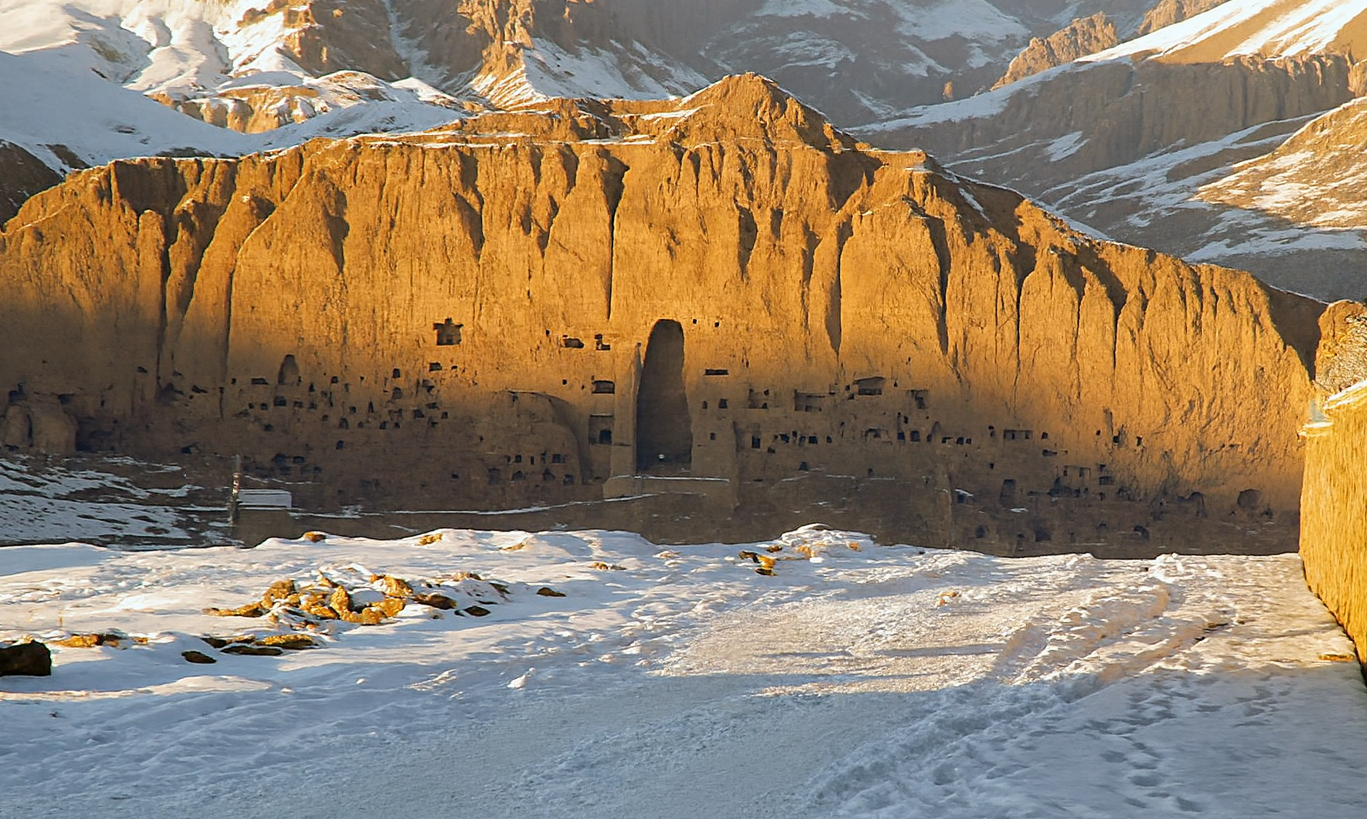
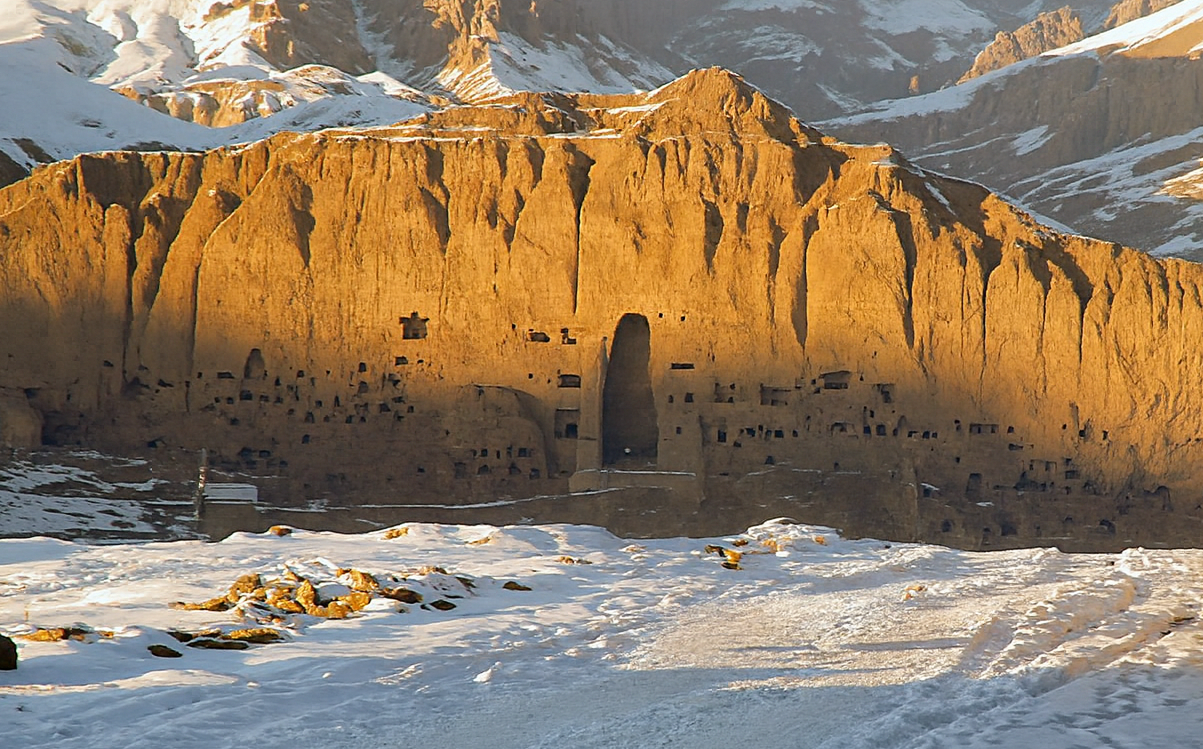
add

diff --git a/app/ui/Hero.tsx b/app/ui/Hero.tsx
@@ -1,7 +1,7 @@
 // app/components/Hero.tsx
 "use client";
 
-import { inter, roboto } from "@/app/lib/font";
+import { roboto } from "@/app/lib/font";
 import { clsx } from "clsx";
 import Image from "next/image";
 import { IMAGE_DEFAULT_BLUR } from "./global/ImageShimer";
@@ -29,12 +29,37 @@ const Hero = () => {
 
       {/* Overlay */}
       <div className="absolute inset-0 bg-black/40" aria-hidden="true" />
+      <div className="inset-0 z-10 ">
+        <Image
+          src="/images/logo-transparent-hd.png"
+          alt="Logo of Hazara Cultural Association"
+          height={240}
+          width={240}
+        />
+      </div>
 
       {/* Content anchored bottom */}
       <div className="absolute inset-0 z-10 flex flex-col items-center justify-end px-4 pb-12 text-center">
+        <Image
+          src="/images/logo-transparent-hd.png"
+          alt="Logo of Hazara Cultural Association"
+          width={340}
+          height={340}
+          className="h-auto w-24 sm:w-28 md:w-36 lg:w-44 xl:w-56 2xl:w-72"
+          // Tell the browser how much space to reserve at each breakpoint
+          sizes="(max-width: 640px) 6rem,
+             (max-width: 768px) 7rem,
+             (max-width: 1024px) 24rem,
+             (max-width: 1280px) 11rem,
+             (max-width: 1536px) 24rem,
+             18rem"
+          priority
+        />
         {/* Glassy logo badge */}
-        <div className="relative rounded-2xl bg-white/20 p-3 shadow-lg ring-1 ring-white/30 backdrop-blur mb-4">
+        {/* <div className="relative rounded-2xl bg-white/20 p-3 shadow-lg ring-1 ring-white/30 backdrop-blur mb-4">
           <div className="relative h-[clamp(6rem,8vw,8rem)] w-[clamp(6rem,8vw,8rem)]">
+
+            
             <Image
               src="/logo-hca-mark.png"
               alt="Hazara Cultural Association logo"
@@ -44,12 +69,12 @@ const Hero = () => {
               priority
             />
           </div>
-        </div>
+        </div> */}
 
         {/* Glassy text card */}
         <div className="mt-2 rounded-2xl bg-white/20 px-6 py-4 shadow-lg ring-1 ring-white/30 backdrop-blur">
           {/* Heading */}
-          <h1
+          {/* <h1
             id="hero-title"
             className={clsx(
               inter.className,
@@ -57,7 +82,7 @@ const Hero = () => {
             )}
           >
             Hazara Cultural Association
-          </h1>
+          </h1> */}
 
           {/* Slogan */}
           <p
